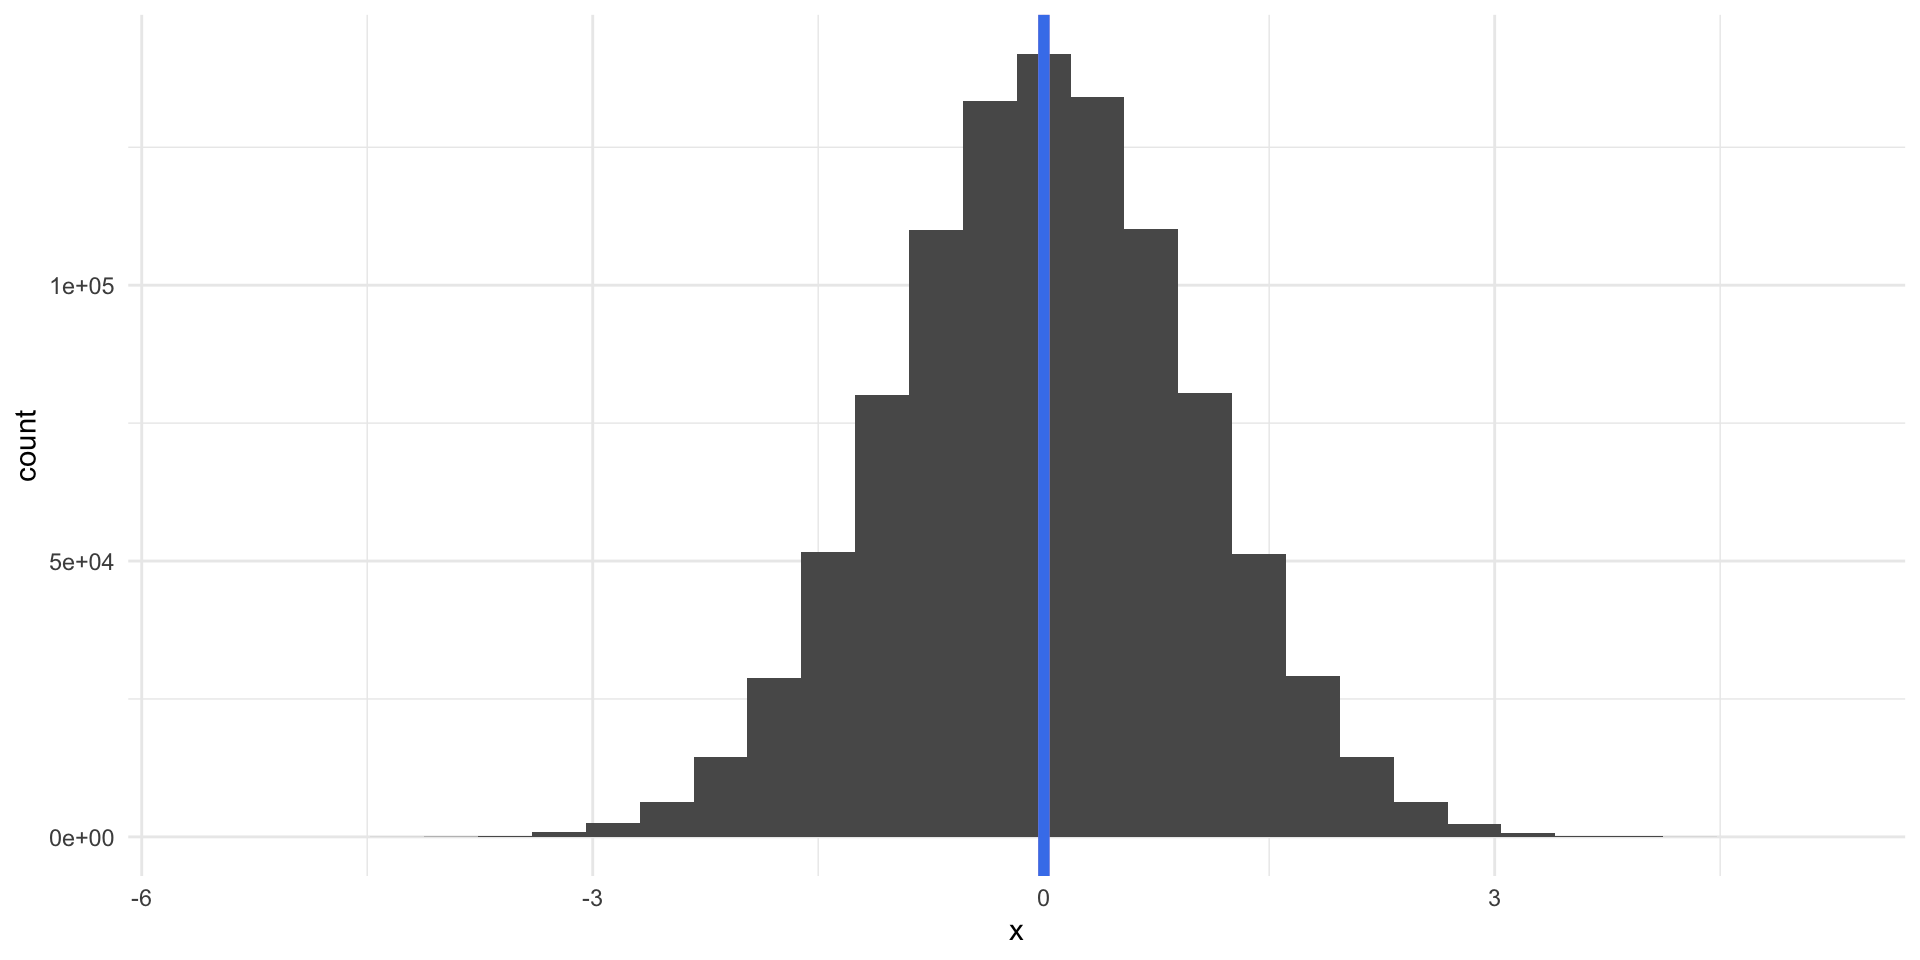
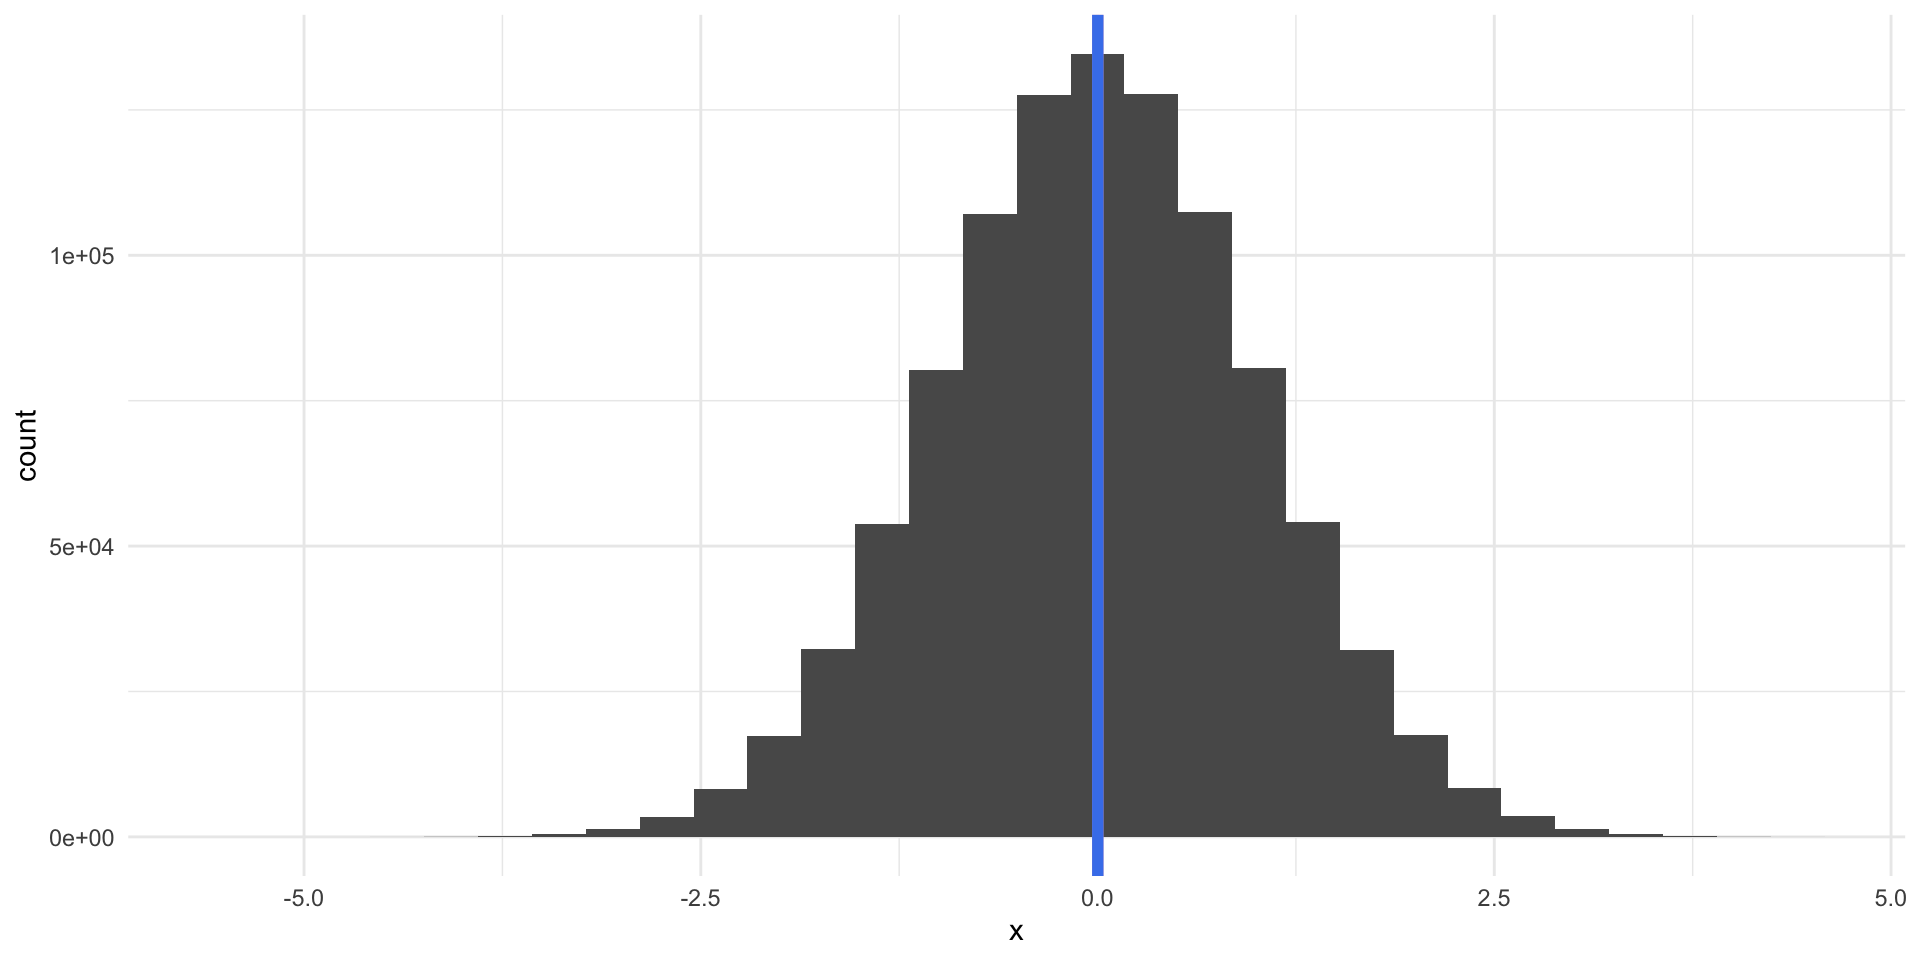
Github push error

Changed region(s): [[0.0312, 0.0, 1.0, 0.9375], [0.0312, 0.25, 0.0625, 0.3125]]

diff --git a/docs/content/02-descriptive_statistics.html b/docs/content/02-descriptive_statistics.html
@@ -1139,18 +1139,18 @@ Tip
 <span id="cb31-10"><a href="#cb31-10" aria-hidden="true" tabindex="-1"></a>wide_var_calc</span></code><button title="Copy to Clipboard" class="code-copy-button"><i class="bi"></i></button></pre></div>
 <div class="cell-output cell-output-stdout">
 <pre><code># A tibble: 1,000,000 × 4
-         x       mean    diff   diff_2
-     &lt;dbl&gt;      &lt;dbl&gt;   &lt;dbl&gt;    &lt;dbl&gt;
- 1  4.48   -0.0000192  4.48   20.1    
- 2 -0.0729 -0.0000192 -0.0728  0.00531
- 3  0.921  -0.0000192  0.921   0.849  
- 4  0.537  -0.0000192  0.537   0.289  
- 5 -0.304  -0.0000192 -0.304   0.0926 
- 6 -0.323  -0.0000192 -0.323   0.104  
- 7  0.136  -0.0000192  0.136   0.0184 
- 8  2.39   -0.0000192  2.39    5.70   
- 9  0.212  -0.0000192  0.212   0.0451 
-10  0.346  -0.0000192  0.346   0.120  
+        x     mean   diff  diff_2
+    &lt;dbl&gt;    &lt;dbl&gt;  &lt;dbl&gt;   &lt;dbl&gt;
+ 1  0.169 -0.00462  0.174  0.0302
+ 2  1.84  -0.00462  1.84   3.39  
+ 3  3.86  -0.00462  3.87  14.9   
+ 4  2.11  -0.00462  2.12   4.49  
+ 5 -1.52  -0.00462 -1.52   2.30  
+ 6  0.912 -0.00462  0.916  0.840 
+ 7 -3.17  -0.00462 -3.16  10.0   
+ 8 -3.79  -0.00462 -3.78  14.3   
+ 9 -1.53  -0.00462 -1.53   2.34  
+10 -0.580 -0.00462 -0.576  0.332 
 # ℹ 999,990 more rows</code></pre>
 </div>
 </div>
@@ -1160,7 +1160,7 @@ Tip
 <span id="cb33-2"><a href="#cb33-2" aria-hidden="true" tabindex="-1"></a></span>
 <span id="cb33-3"><a href="#cb33-3" aria-hidden="true" tabindex="-1"></a>wide_var</span></code><button title="Copy to Clipboard" class="code-copy-button"><i class="bi"></i></button></pre></div>
 <div class="cell-output cell-output-stdout">
-<pre><code>[1] 3.98637</code></pre>
+<pre><code>[1] 3.996128</code></pre>
 </div>
 </div>
 <p>We can compare this to the variance for our narrower distribution.</p>
@@ -1176,7 +1176,7 @@ Tip
 <span id="cb35-9"><a href="#cb35-9" aria-hidden="true" tabindex="-1"></a></span>
 <span id="cb35-10"><a href="#cb35-10" aria-hidden="true" tabindex="-1"></a>narrow_var</span></code><button title="Copy to Clipboard" class="code-copy-button"><i class="bi"></i></button></pre></div>
 <div class="cell-output cell-output-stdout">
-<pre><code>[1] 1.001459</code></pre>
+<pre><code>[1] 1.000453</code></pre>
 </div>
 </div>
 <p>It is, in fact, smaller!</p>
@@ -1184,15 +1184,15 @@ Tip
 <div class="cell">
 <div class="sourceCode cell-code" id="cb37"><pre class="sourceCode r code-with-copy"><code class="sourceCode r"><span id="cb37-1"><a href="#cb37-1" aria-hidden="true" tabindex="-1"></a><span class="fu">var</span>(wide_dist)</span></code><button title="Copy to Clipboard" class="code-copy-button"><i class="bi"></i></button></pre></div>
 <div class="cell-output cell-output-stdout">
-<pre><code>        x
-x 3.98637</code></pre>
+<pre><code>         x
+x 3.996128</code></pre>
 </div>
 </div>
 <div class="cell">
 <div class="sourceCode cell-code" id="cb39"><pre class="sourceCode r code-with-copy"><code class="sourceCode r"><span id="cb39-1"><a href="#cb39-1" aria-hidden="true" tabindex="-1"></a><span class="fu">var</span>(narrow_dist)</span></code><button title="Copy to Clipboard" class="code-copy-button"><i class="bi"></i></button></pre></div>
 <div class="cell-output cell-output-stdout">
 <pre><code>         x
-x 1.001459</code></pre>
+x 1.000453</code></pre>
 </div>
 </div>
 <div class="cell">
@@ -1209,26 +1209,26 @@ x TRUE</code></pre>
 <div class="cell">
 <div class="sourceCode cell-code" id="cb43"><pre class="sourceCode r code-with-copy"><code class="sourceCode r"><span id="cb43-1"><a href="#cb43-1" aria-hidden="true" tabindex="-1"></a><span class="fu">sqrt</span>(wide_var)</span></code><button title="Copy to Clipboard" class="code-copy-button"><i class="bi"></i></button></pre></div>
 <div class="cell-output cell-output-stdout">
-<pre><code>[1] 1.99659</code></pre>
+<pre><code>[1] 1.999032</code></pre>
 </div>
 </div>
 <div class="cell">
 <div class="sourceCode cell-code" id="cb45"><pre class="sourceCode r code-with-copy"><code class="sourceCode r"><span id="cb45-1"><a href="#cb45-1" aria-hidden="true" tabindex="-1"></a><span class="fu">sqrt</span>(narrow_var)</span></code><button title="Copy to Clipboard" class="code-copy-button"><i class="bi"></i></button></pre></div>
 <div class="cell-output cell-output-stdout">
-<pre><code>[1] 1.000729</code></pre>
+<pre><code>[1] 1.000226</code></pre>
 </div>
 </div>
 <p>You can get this directly using <code>sd()</code>:</p>
 <div class="cell">
 <div class="sourceCode cell-code" id="cb47"><pre class="sourceCode r code-with-copy"><code class="sourceCode r"><span id="cb47-1"><a href="#cb47-1" aria-hidden="true" tabindex="-1"></a><span class="fu">sd</span>(wide_dist<span class="sc">$</span>x)</span></code><button title="Copy to Clipboard" class="code-copy-button"><i class="bi"></i></button></pre></div>
 <div class="cell-output cell-output-stdout">
-<pre><code>[1] 1.99659</code></pre>
+<pre><code>[1] 1.999032</code></pre>
 </div>
 </div>
 <div class="cell">
 <div class="sourceCode cell-code" id="cb49"><pre class="sourceCode r code-with-copy"><code class="sourceCode r"><span id="cb49-1"><a href="#cb49-1" aria-hidden="true" tabindex="-1"></a><span class="fu">sd</span>(narrow_dist<span class="sc">$</span>x)</span></code><button title="Copy to Clipboard" class="code-copy-button"><i class="bi"></i></button></pre></div>
 <div class="cell-output cell-output-stdout">
-<pre><code>[1] 1.000729</code></pre>
+<pre><code>[1] 1.000226</code></pre>
 </div>
 </div>
 <p>If you look back to our graphs, you will see that I set the standard deviations explicitly when I generated the data: <code>rnorm()</code> takes an <code>sd</code> argument. This is great because we can confirm that the standard deviations for the wide and narrow distributions are 2 and 1 respectively (with a little bit of randomnoise).</p>
@@ -1272,12 +1272,12 @@ Tip
 <pre><code># A tibble: 6 × 1
       x
   &lt;dbl&gt;
-1  5.78
-2  8.10
-3  6.42
-4  1.72
-5  5.42
-6  4.86</code></pre>
+1  5.11
+2  6.00
+3  4.09
+4  4.08
+5  3.83
+6  7.53</code></pre>
 </div>
 </div>
 <div class="callout callout-style-default callout-note callout-titled">
@@ -1347,12 +1347,12 @@ z_i = \frac{x_i - \mu_x}{\sigma_x}
 <pre><code># A tibble: 6 × 4
       x  mean    sd z_score
   &lt;dbl&gt; &lt;dbl&gt; &lt;dbl&gt;   &lt;dbl&gt;
-1  5.78  5.00  2.00  0.392 
-2  8.10  5.00  2.00  1.55  
-3  6.42  5.00  2.00  0.712 
-4  1.72  5.00  2.00 -1.64  
-5  5.42  5.00  2.00  0.211 
-6  4.86  5.00  2.00 -0.0664</code></pre>
+1  5.11  5.00  2.00  0.0552
+2  6.00  5.00  2.00  0.500 
+3  4.09  5.00  2.00 -0.454 
+4  4.08  5.00  2.00 -0.460 
+5  3.83  5.00  2.00 -0.585 
+6  7.53  5.00  2.00  1.27  </code></pre>
 </div>
 </div>
 <p>We can confirm this:</p>
